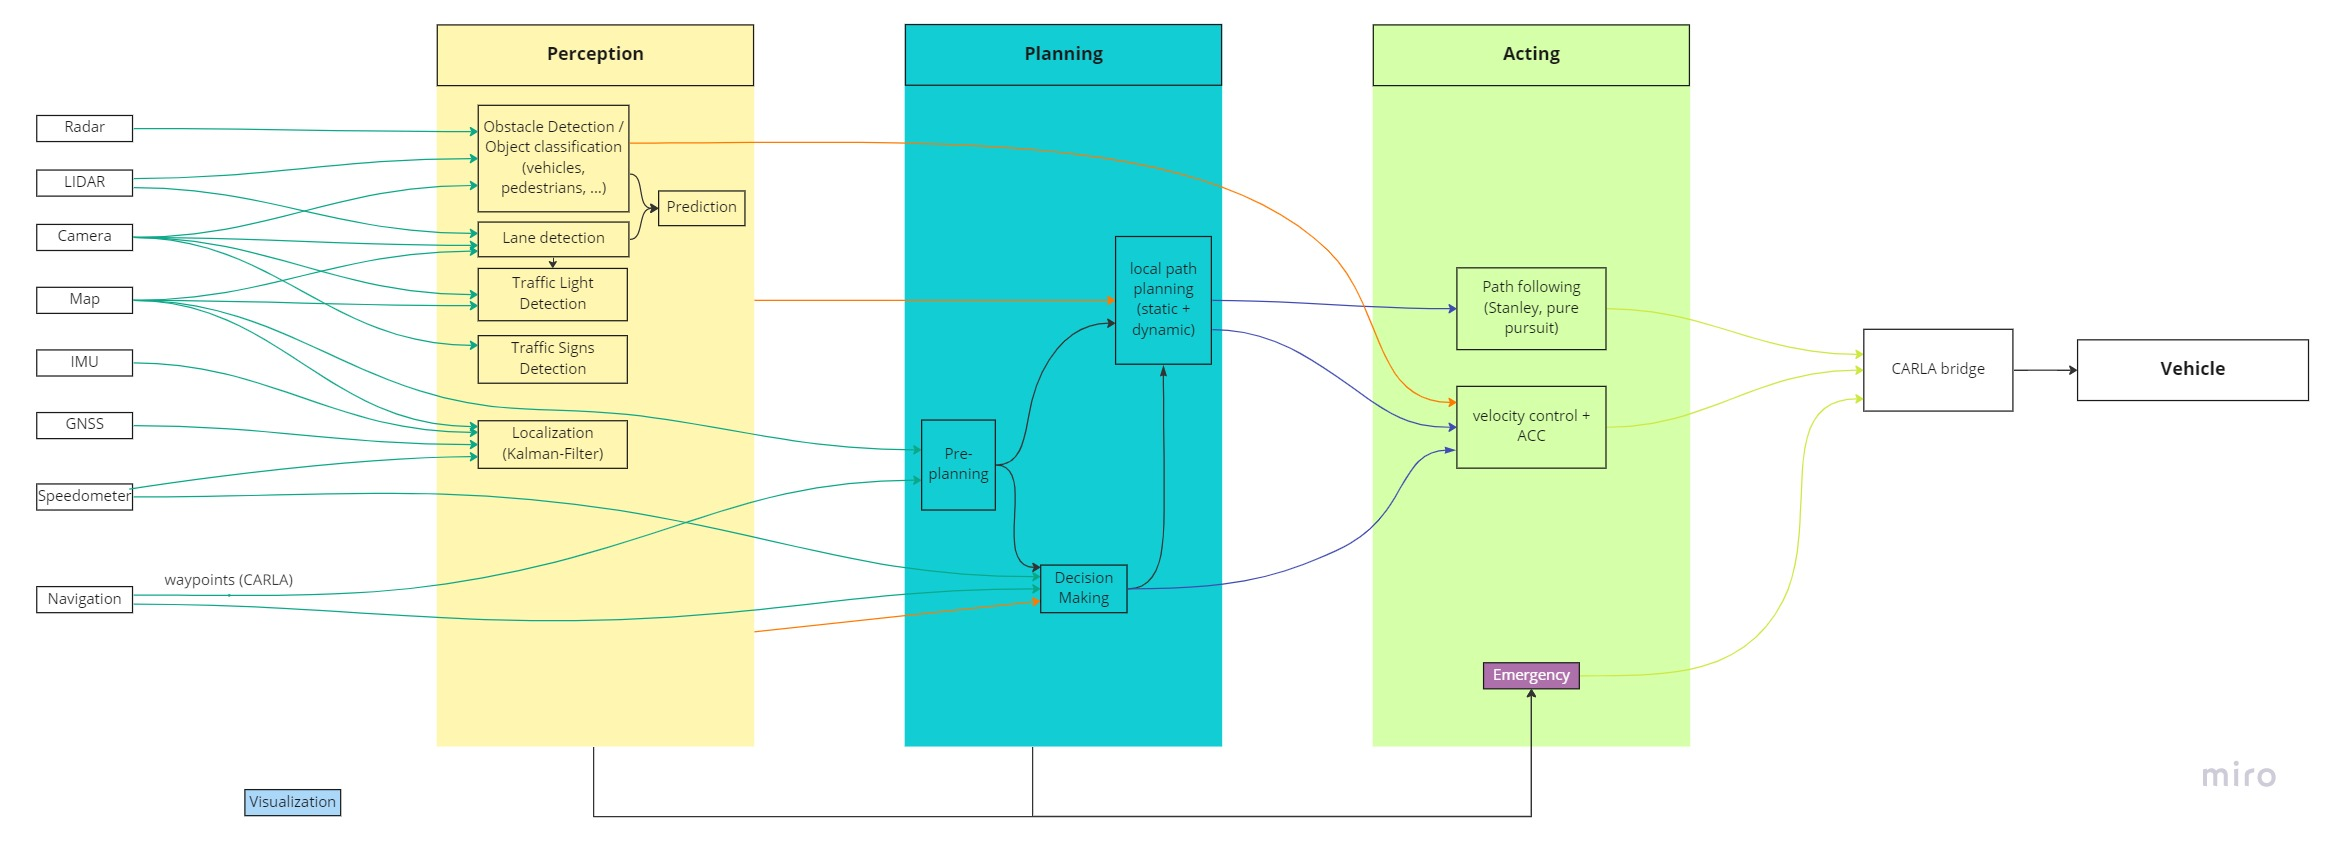
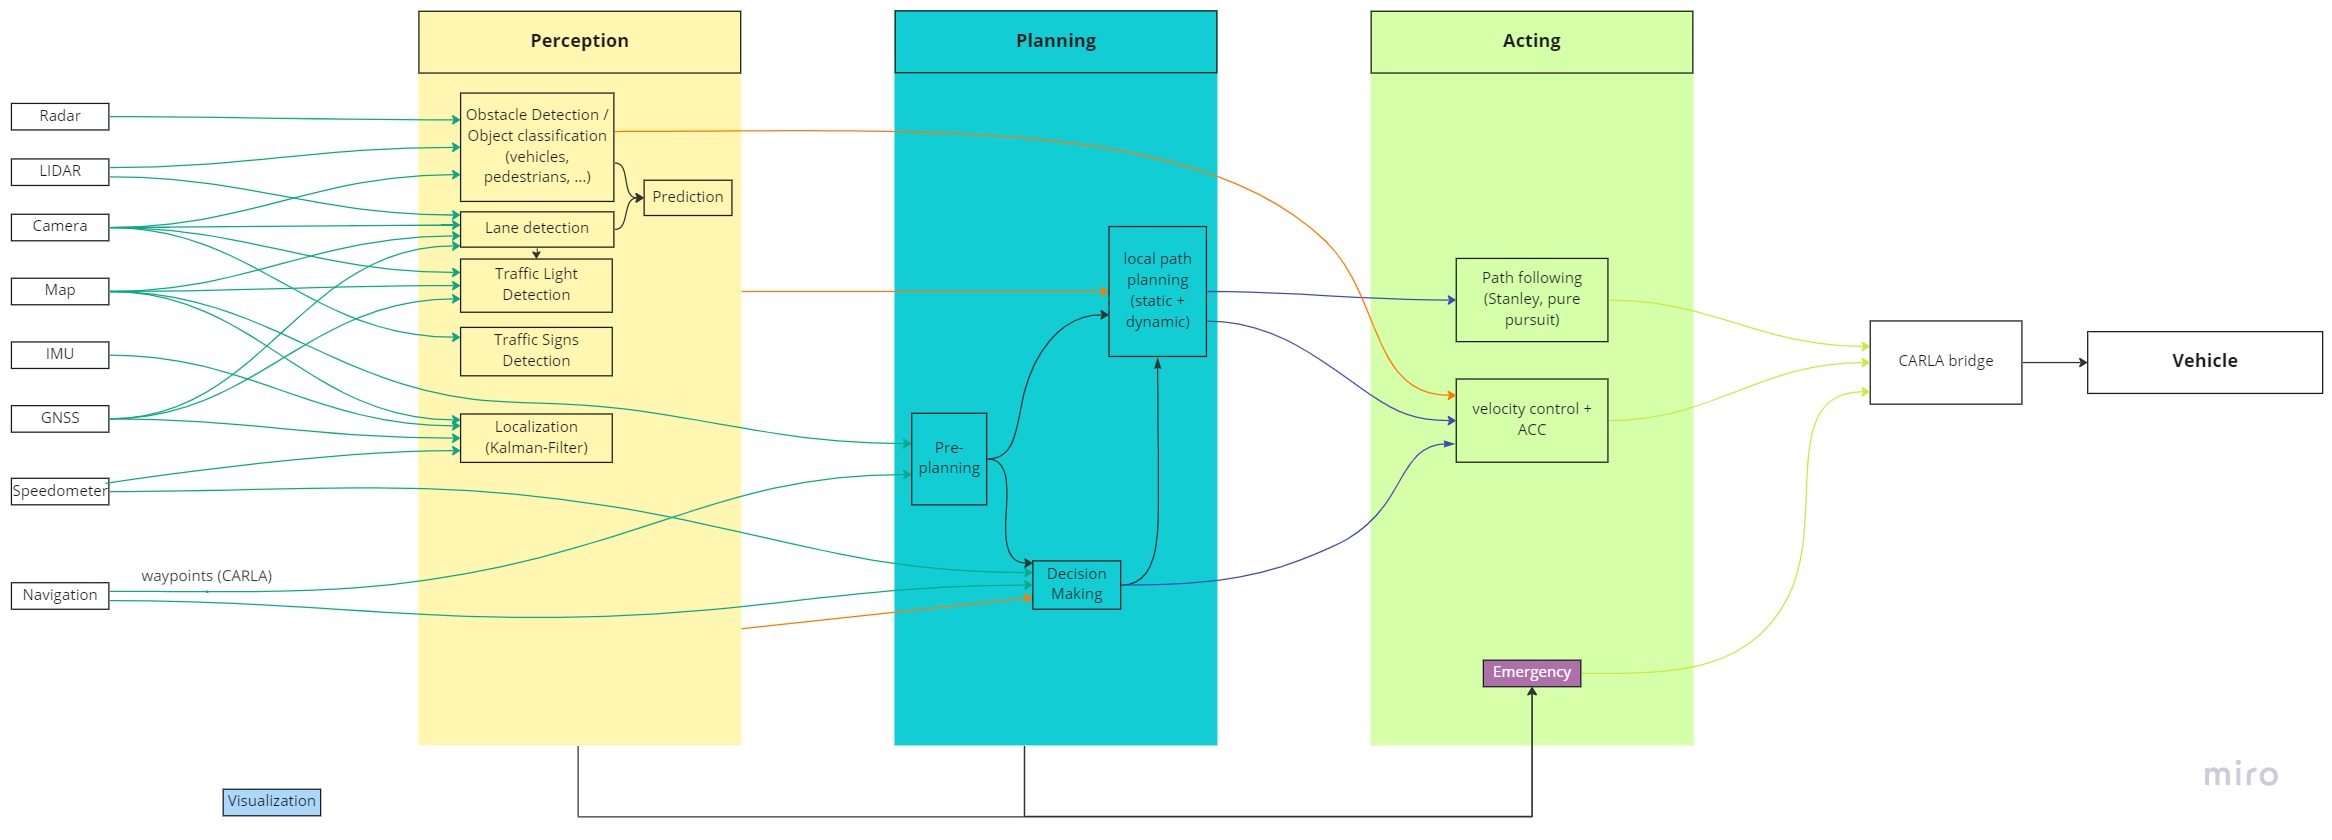
docs(#33): Added some subscriptions to perception modules

diff --git a/doc/01_general/04_architecture.md b/doc/01_general/04_architecture.md
@@ -72,6 +72,8 @@ Subscriptions:
 - ```radar``` ([sensor_msgs/PointCloud2](https://docs.ros.org/en/api/sensor_msgs/html/msg/PointCloud2.html))
 - ```lidar``` ([sensor_msgs/PointCloud2](https://docs.ros.org/en/api/sensor_msgs/html/msg/PointCloud2.html))
 - ```rgb_camera``` ([sensor_msgs/Image](https://docs.ros.org/en/api/sensor_msgs/html/msg/Image.html))
+- ````gnss```` ([sensor_msgs/NavSatFix](https://carla.readthedocs.io/projects/ros-bridge/en/latest/ros_sensors/))
+- ```map``` (([std_msgs/String](https://docs.ros.org/en/api/std_msgs/html/msg/String.html)))
 
 Publishes:
 
@@ -90,8 +92,9 @@ Subscriptions:
 - ```map``` ([std_msgs/String](https://docs.ros.org/en/api/std_msgs/html/msg/String.html))
 - ```lidar``` ([sensor_msgs/PointCloud2](https://docs.ros.org/en/api/sensor_msgs/html/msg/PointCloud2.html))
 - ```rgb_camera``` ([sensor_msgs/Image](https://docs.ros.org/en/api/sensor_msgs/html/msg/Image.html))
+- ```gnss``` ([sensor_msgs/NavSatFix](https://carla.readthedocs.io/projects/ros-bridge/en/latest/ros_sensors/))
 
-Publishes:
+- Publishes:
 
 - ```lanes``` ([derived_object_msgs/LaneModels Message](http://docs.ros.org/en/kinetic/api/derived_object_msgs/html/msg/LaneModels.html))
 
@@ -106,6 +109,7 @@ Subscriptions:
 - ```map``` ([std_msgs/String](https://docs.ros.org/en/api/std_msgs/html/msg/String.html))
 - ```rgb_camera``` ([sensor_msgs/Image](https://docs.ros.org/en/api/sensor_msgs/html/msg/Image.html))
 - ```lidar``` ([sensor_msgs/PointCloud2](https://docs.ros.org/en/api/sensor_msgs/html/msg/PointCloud2.html))
+- ```gnss``` ([sensor_msgs/NavSatFix](https://carla.readthedocs.io/projects/ros-bridge/en/latest/ros_sensors/))
 
 Publishes:
 
